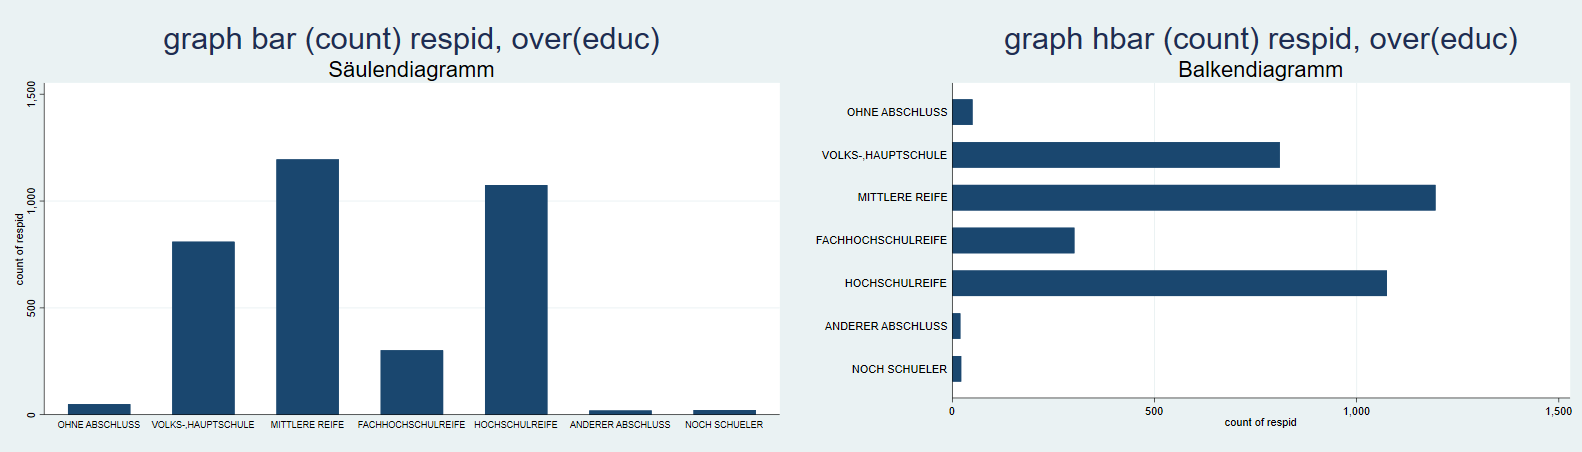
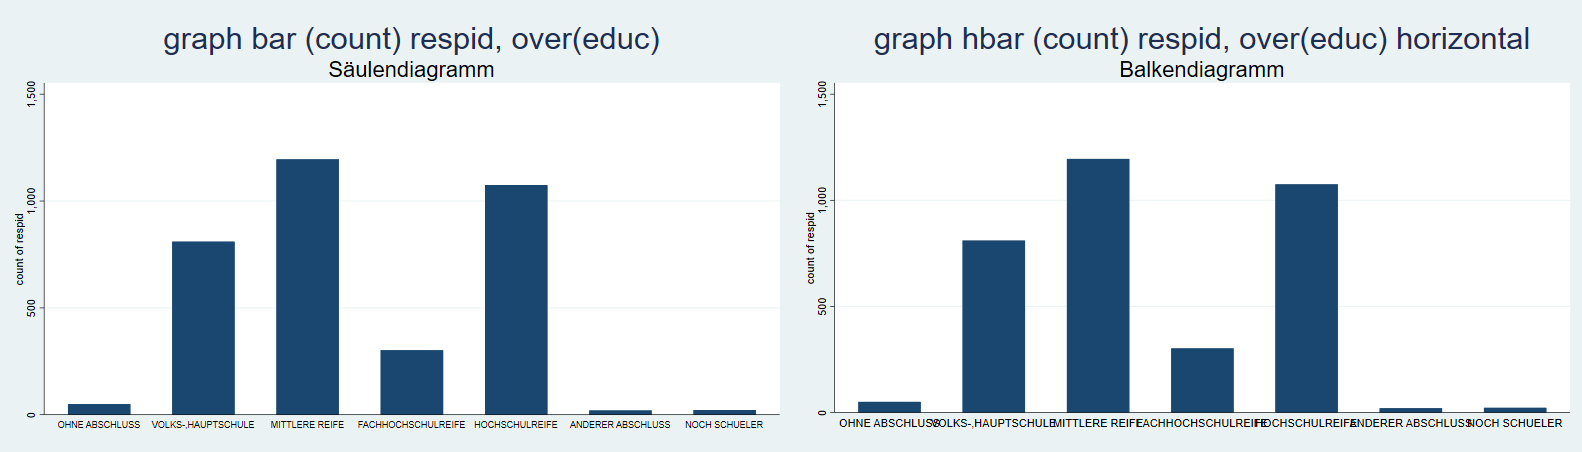
update pyramide

diff --git a/docs/dataviz.html b/docs/dataviz.html
@@ -319,9 +319,9 @@ code span.wa { color: #60a0b0; font-weight: bold; font-style: italic; } /* Warni
 </div>
 <div id="kategoriale-variablen" class="section level3">
 <h3><span class="header-section-number">4.1.2</span> Kategoriale Variablen</h3>
-<p>Die Darstellung einer kategorialen Variable ist häufig eine grafische Übersetzung einer Häufigkeitsauszählung. Insbesondere bieten sich dafür Säulen- und Balkendiagramme an. Beispielsweise könnten wir die Schulabschlüsse der Befragen auszählen. Dazu zählen<a href="#fn1" class="footnote-ref" id="fnref1"><sup>1</sup></a> wir die <code>respid</code>s pro Ausprägung von <code>educ</code><a href="#fn2" class="footnote-ref" id="fnref2"><sup>2</sup></a>, mit <code>graph bar</code> bzw <code>graph hbar</code> bekommen wir dann ein Säulen- bw. Balkendiagramm.</p>
+<p>Die Darstellung einer kategorialen Variable ist häufig eine grafische Übersetzung einer Häufigkeitsauszählung. Insbesondere bieten sich dafür Säulen- und Balkendiagramme an. Beispielsweise könnten wir die Schulabschlüsse der Befragen auszählen. Dazu zählen<a href="#fn1" class="footnote-ref" id="fnref1"><sup>1</sup></a> wir die <code>respid</code>s pro Ausprägung von <code>educ</code><a href="#fn2" class="footnote-ref" id="fnref2"><sup>2</sup></a>, mit <code>graph bar</code> bzw <code>graph bar, horizontal</code> bekommen wir dann ein Säulen- bw. Balkendiagramm.</p>
 <div class="sourceCode" id="cb3"><pre class="sourceCode stata"><code class="sourceCode stata"><span id="cb3-1"><a href="dataviz.html#cb3-1"></a><span class="kw">graph</span> <span class="bn">bar</span> (<span class="fu">count</span>) respid, <span class="bn">over</span>(educ)  </span>
-<span id="cb3-2"><a href="dataviz.html#cb3-2"></a><span class="kw">graph</span> <span class="bn">hbar</span> (<span class="fu">count</span>) respid, <span class="bn">over</span>(educ) </span></code></pre></div>
+<span id="cb3-2"><a href="dataviz.html#cb3-2"></a><span class="kw">graph</span> <span class="bn">bar</span> (<span class="fu">count</span>) respid, <span class="bn">over</span>(educ) horizontal</span></code></pre></div>
 <p><img src="04_bar_plots.png" width="100%" height="100%" style="display: block; margin: auto;" /></p>
 </div>
 </div>
@@ -334,7 +334,7 @@ code span.wa { color: #60a0b0; font-weight: bold; font-style: italic; } /* Warni
 <p><img src="04_dist_plots2.png" width="100%" height="100%" style="display: block; margin: auto;" />
 Das funktioniert auch für die Säulen- und Balkendiagramme:</p>
 <div class="sourceCode" id="cb5"><pre class="sourceCode stata"><code class="sourceCode stata"><span id="cb5-1"><a href="dataviz.html#cb5-1"></a><span class="kw">graph</span> <span class="bn">bar</span> (<span class="fu">count</span>) respid, <span class="bn">over</span>(educ)  <span class="kw">by</span>(sex)</span>
-<span id="cb5-2"><a href="dataviz.html#cb5-2"></a><span class="kw">graph</span> <span class="bn">hbar</span> (<span class="fu">count</span>) respid, <span class="bn">over</span>(educ)  <span class="kw">by</span>(sex)</span></code></pre></div>
+<span id="cb5-2"><a href="dataviz.html#cb5-2"></a><span class="kw">graph</span> <span class="bn">bar</span> (<span class="fu">count</span>) respid, <span class="bn">over</span>(educ)  <span class="kw">by</span>(sex) horizontal</span></code></pre></div>
 <p><img src="04_bar_plots2.png" width="100%" height="100%" style="display: block; margin: auto;" /></p>
 </div>
 <div id="gemeinsame-verteilung-zweier-variablen" class="section level2">
@@ -484,7 +484,7 @@ Dabei können wir aus einer Reihe an Formen, Größen und Farben wählen:
 <p>Häufig ist die größte Herausforderung, die Daten so umzustellen, dass sie zum gewünschten <code>graph</code>-Befehl passen. Ein Beispiel ist die Erstellung einer Bevölkerungspyramide aus den Allbusdaten:</p>
 <p><img src="04_pyramid.png" width="60%" height="60%" style="display: block; margin: auto;" /></p>
 <p>Auch diese Bevölkerungspyramide lässt sich als Stata-Grafik erstellen. Allerdings müssen dazu einige Zwischenschritte durchlaufen, die fortgeschrittene Datenaufbereitung mit <code>collapse</code> voraussetzen. Außerdem könnte ein Teil der Aufbereitung mit <code>separate</code> abgekürzt werden. Mehr Informationen dazu finden sich am Ende dieses Skripts in Kapitel <a href="adva.html#adva">11</a>.</p>
-<p>Die grundsätzliche Funktion für die Bevölkerungspyramide ist ein Balkendiagramm mit <code>graph twoway bar , horizontal</code>. Die Länge der Balken soll jeweils durch die Anzahl der Fälle in jeder Altersstufe, getrennt nach Geschlecht, bestimmt werden. Dazu müssen wir also zunächst die Anzahl der Befragten pro Alterstufe und Geschlecht bestimmen. Wenn wir den Allbus 2018 laden, haben wir ja einen Datensatz mit einer Zeile pro Person. Was wir jetzt aber benötigen ist eine Variante, in der wir den Datensatz sozusagen “zusammenschieben”: wir brauchen jeweils eine Zeile pro Altersstufe und Geschlecht und eine Variable mit der Zahl der Befragten.</p>
+<p>Die grundsätzliche Funktion für die Bevölkerungspyramide ist ein Balkendiagramm mit <code>graph twoway hbar</code>. Die Länge der Balken soll jeweils durch die Anzahl der Fälle in jeder Altersstufe, getrennt nach Geschlecht, bestimmt werden. Dazu müssen wir also zunächst die Anzahl der Befragten pro Alterstufe und Geschlecht bestimmen. Wenn wir den Allbus 2018 laden, haben wir ja einen Datensatz mit einer Zeile pro Person. Was wir jetzt aber benötigen ist eine Variante, in der wir den Datensatz sozusagen “zusammenschieben”: wir brauchen jeweils eine Zeile pro Altersstufe und Geschlecht und eine Variable mit der Zahl der Befragten.</p>
 <pre><code>  age sex Anzahl_Befragte
 1  18   1              15
 2  18   2              11
@@ -538,24 +538,33 @@ Was hier noch fehlt ist, die Umorientierung der Zahlen für die Männer “nach 
 Mit <code>xlabel</code> und <code>legend</code>noch einige Anpassungen, außerdem können wir mit <code>text</code> noch Beschriftungen hinzufügen:</p>
 <div class="sourceCode" id="cb34"><pre class="sourceCode stata"><code class="sourceCode stata"><span id="cb34-1"><a href="dataviz.html#cb34-1"></a><span class="kw">twoway</span>( <span class="bn">bar</span> neg_total_m age, horizontal )(<span class="bn">bar</span> total_f age, horizontal) ,<span class="kw">xlabel</span>( -40 <span class="st">&quot;40&quot;</span> -30 <span class="st">&quot;30&quot;</span> -20 <span class="st">&quot;20&quot;</span> -10 <span class="st">&quot;10&quot;</span> 0 10(10)40 ) <span class="bn">legend</span>(<span class="kw">off</span>) <span class="bn">text</span>(100 -8 <span class="st">&quot;Männer&quot;</span>) <span class="bn">text</span>(100 8 <span class="st">&quot;Frauen&quot;</span>)</span></code></pre></div>
 <p><img src="04_pyramid.png" width="60%" height="60%" style="display: block; margin: auto;" /></p>
+<p>Anpassung der Farbe, des Schemas, …:</p>
+<div class="sourceCode" id="cb35"><pre class="sourceCode stata"><code class="sourceCode stata"><span id="cb35-1"><a href="dataviz.html#cb35-1"></a><span class="kw">twoway</span> <span class="co">///</span></span>
+<span id="cb35-2"><a href="dataviz.html#cb35-2"></a>(<span class="bn">bar</span> neg_total_m age, horizontal fcolor(<span class="st">&quot;60 117 153&quot;</span>)) <span class="co">///</span></span>
+<span id="cb35-3"><a href="dataviz.html#cb35-3"></a>(<span class="bn">bar</span> total_f age, horizontal fcolor(<span class="st">&quot;201 255 247&quot;</span>)) , <span class="co">/// </span></span>
+<span id="cb35-4"><a href="dataviz.html#cb35-4"></a><span class="kw">xlabel</span>( -40 <span class="st">&quot;40&quot;</span> -30 <span class="st">&quot;30&quot;</span> -20 <span class="st">&quot;20&quot;</span> -10 <span class="st">&quot;10&quot;</span> 0 10(10)40 ) <span class="co">///</span></span>
+<span id="cb35-5"><a href="dataviz.html#cb35-5"></a><span class="bn">legend</span>(<span class="kw">off</span>) <span class="bn">text</span>(100 -8 <span class="st">&quot;Männer&quot;</span>) <span class="bn">text</span>(100 8 <span class="st">&quot;Frauen&quot;</span>) <span class="co">///</span></span>
+<span id="cb35-6"><a href="dataviz.html#cb35-6"></a><span class="bn">xscale</span>(<span class="kw">range</span>(0 50)) xtick(-50 (10) 50 ) <span class="co">///</span></span>
+<span id="cb35-7"><a href="dataviz.html#cb35-7"></a><span class="dv">scheme</span>(plotplain) <span class="bn">xtitle</span>(<span class="st">&quot;{stSerif: Anzahl Befragte}&quot;</span>) <span class="bn">ytitle</span>(<span class="st">&quot;{stSerif: Alter Befragte(r)}&quot;</span>)</span></code></pre></div>
+<p><img src="04_pyramid_final.png" width="60%" height="60%" style="display: block; margin: auto;" /></p>
 </div>
 </div>
 <div id="anhang" class="section level2">
 <h2><span class="header-section-number">4.9</span> Anhang</h2>
 <div id="aufb1" class="section level3">
 <h3><span class="header-section-number">4.9.1</span> Aufbereitung für Boxplot</h3>
-<div class="sourceCode" id="cb35"><pre class="sourceCode stata"><code class="sourceCode stata"><span id="cb35-1"><a href="dataviz.html#cb35-1"></a>cd <span class="st">&quot;&quot;</span></span>
-<span id="cb35-2"><a href="dataviz.html#cb35-2"></a><span class="kw">use</span> <span class="st">&quot;Allbus_2018.dta&quot;</span>, <span class="kw">clear</span></span>
-<span id="cb35-3"><a href="dataviz.html#cb35-3"></a><span class="kw">replace</span> inc = . <span class="kw">if</span> inc &lt; 0</span>
-<span id="cb35-4"><a href="dataviz.html#cb35-4"></a><span class="kw">replace</span> age = . <span class="kw">if</span> age &lt; 0</span>
-<span id="cb35-5"><a href="dataviz.html#cb35-5"></a></span>
-<span id="cb35-6"><a href="dataviz.html#cb35-6"></a><span class="kw">egen</span> age_c = <span class="fu">cut</span>(age), <span class="fu">at</span>(20,35,50,65)</span>
-<span id="cb35-7"><a href="dataviz.html#cb35-7"></a>lab def agec1 20 <span class="st">&quot;20-34&quot;</span> 35 <span class="st">&quot;35-49&quot;</span> 50 <span class="st">&quot;50-64&quot;</span></span>
-<span id="cb35-8"><a href="dataviz.html#cb35-8"></a>lab val age_c agec1</span>
-<span id="cb35-9"><a href="dataviz.html#cb35-9"></a><span class="kw">gen</span> inc_m = inc <span class="kw">if</span> sex == 1</span>
-<span id="cb35-10"><a href="dataviz.html#cb35-10"></a><span class="kw">gen</span> inc_f = inc <span class="kw">if</span> sex == 2</span>
-<span id="cb35-11"><a href="dataviz.html#cb35-11"></a>lab <span class="kw">var</span> inc_m <span class="st">&quot;Männer&quot;</span></span>
-<span id="cb35-12"><a href="dataviz.html#cb35-12"></a>lab <span class="kw">var</span> inc_f <span class="st">&quot;Frauen&quot;</span></span></code></pre></div>
+<div class="sourceCode" id="cb36"><pre class="sourceCode stata"><code class="sourceCode stata"><span id="cb36-1"><a href="dataviz.html#cb36-1"></a>cd <span class="st">&quot;&quot;</span></span>
+<span id="cb36-2"><a href="dataviz.html#cb36-2"></a><span class="kw">use</span> <span class="st">&quot;Allbus_2018.dta&quot;</span>, <span class="kw">clear</span></span>
+<span id="cb36-3"><a href="dataviz.html#cb36-3"></a><span class="kw">replace</span> inc = . <span class="kw">if</span> inc &lt; 0</span>
+<span id="cb36-4"><a href="dataviz.html#cb36-4"></a><span class="kw">replace</span> age = . <span class="kw">if</span> age &lt; 0</span>
+<span id="cb36-5"><a href="dataviz.html#cb36-5"></a></span>
+<span id="cb36-6"><a href="dataviz.html#cb36-6"></a><span class="kw">egen</span> age_c = <span class="fu">cut</span>(age), <span class="fu">at</span>(20,35,50,65)</span>
+<span id="cb36-7"><a href="dataviz.html#cb36-7"></a>lab def agec1 20 <span class="st">&quot;20-34&quot;</span> 35 <span class="st">&quot;35-49&quot;</span> 50 <span class="st">&quot;50-64&quot;</span></span>
+<span id="cb36-8"><a href="dataviz.html#cb36-8"></a>lab val age_c agec1</span>
+<span id="cb36-9"><a href="dataviz.html#cb36-9"></a><span class="kw">gen</span> inc_m = inc <span class="kw">if</span> sex == 1</span>
+<span id="cb36-10"><a href="dataviz.html#cb36-10"></a><span class="kw">gen</span> inc_f = inc <span class="kw">if</span> sex == 2</span>
+<span id="cb36-11"><a href="dataviz.html#cb36-11"></a>lab <span class="kw">var</span> inc_m <span class="st">&quot;Männer&quot;</span></span>
+<span id="cb36-12"><a href="dataviz.html#cb36-12"></a>lab <span class="kw">var</span> inc_f <span class="st">&quot;Frauen&quot;</span></span></code></pre></div>
 </div>
 <div id="boxplot1" class="section level3">
 <h3><span class="header-section-number">4.9.2</span> Boxplot</h3>
